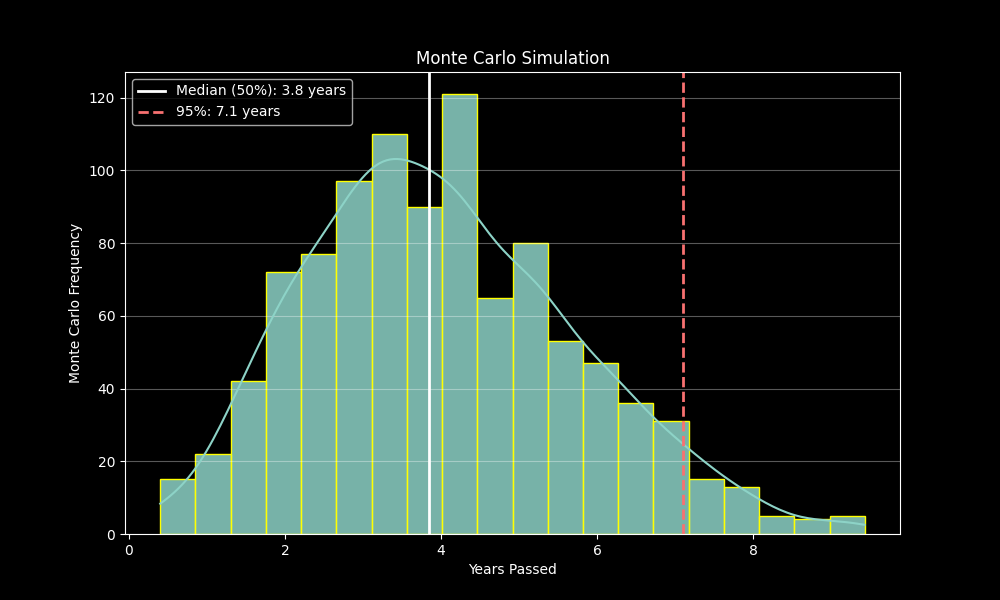
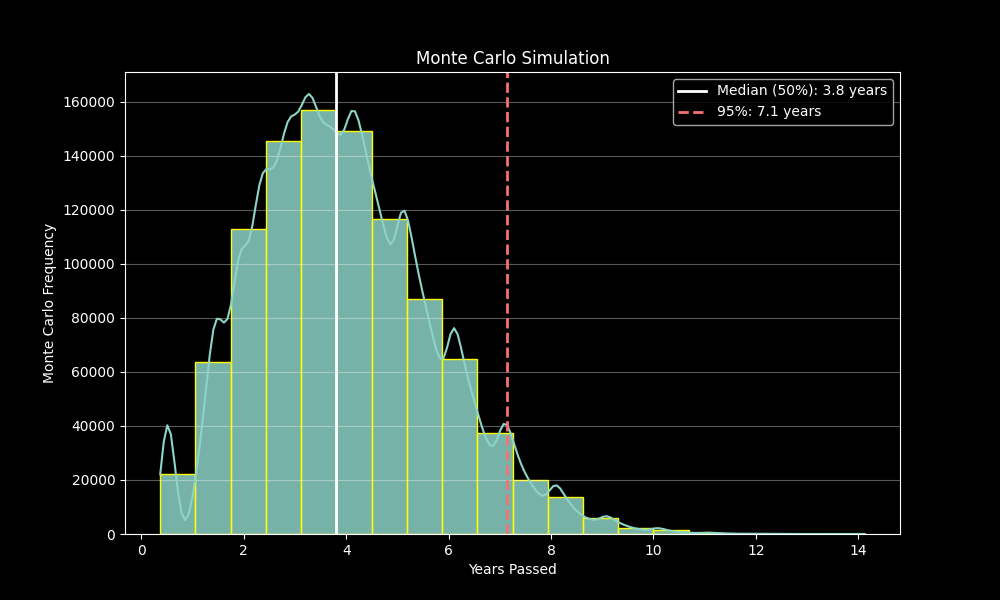
increased speed by 3100 percent from 54 it/s to 1676 it/s

diff --git a/scripts/flatten_data.py b/scripts/flatten_data.py
@@ -14,7 +14,7 @@ class VisaDataProcessor():
         if (self.preference == "EB2" or self.preference == "EB3") and self.country_name == "India":
             self.sheet_name = m.SHEET_NAME_INDIA
             self.preference_range = m.COLORS_INDIA
-            
+        self.i_140_count = self.set_i140_snapshot()
     def flatten(self):
         data = pd.read_excel(self.file_path, self.sheet_name, skiprows=m.EXCEL_SKIPROWS, skipfooter=m.EXCEL_SKIPFOOTER)
         df = pd.DataFrame(data)
@@ -22,7 +22,7 @@ class VisaDataProcessor():
         prior_year = self.get_prior_year(df)
         df_flat = df.melt(id_vars=id_cols, var_name="Year", value_name="Count")
         df_flat["Year"] = df_flat["Year"].str.replace(m.COL_YEAR_PREFIX, "", regex=False)
-        df_flat["Count"] = df_flat["Count"].replace("-", m.VALUE_REPLACE_DASH).replace("D", m.VALUE_REPLACE_D)
+        df_flat["Count"] = df_flat["Count"].replace("-", m.VALUE_REPLACE_DASH).replace("D", m.VALUE_REPLACE_D).infer_objects(copy = False)
         temp_yrs = df_flat["Year"].replace(m.COL_PRIOR_YEARS, str(prior_year))
         df_flat["Date"] = pd.to_datetime(df_flat[m.COL_PRIORITY_MONTH] + " " + temp_yrs, format="%B %Y")
         return df_flat
@@ -50,6 +50,8 @@ class VisaDataProcessor():
         plt.close()
 
     def get_i140_snapshot(self):
+        return self.i_140_count
+    def set_i140_snapshot(self):
         file = os.path.join(os.getcwd(), m.DATA_DIR, m.I140_FILE)
         data = pd.read_excel(file, skiprows=m.EXCEL_SKIPROWS, skipfooter=m.EXCEL_SKIPFOOTER)
         data["Country"] = data["Country"].astype(str).str.strip()

diff --git a/scripts/main.py b/scripts/main.py
@@ -16,7 +16,7 @@ def main():
     )
 
     results = sim.monte_carlo()
-    sim.calculate_probability(results, 2.5)
+    sim.calculate_probability(results, 5)
     if len(results) > 0 and np.sum(results) == 0:
         print("Date already current. 0 wait time")
     else:

diff --git a/scripts/macros.py b/scripts/macros.py
@@ -5,7 +5,7 @@ COUNTRY = "India"
 PREFERENCE = "EB2"
 TARGET_DATE = "2015-08-15"
 VISA_BULLETIN_DATE = "2013-07-15"
-SIMS = 1000
+SIMS = 1000000
 N_YEARS = 100
 
 # --- Quota Constants ---
